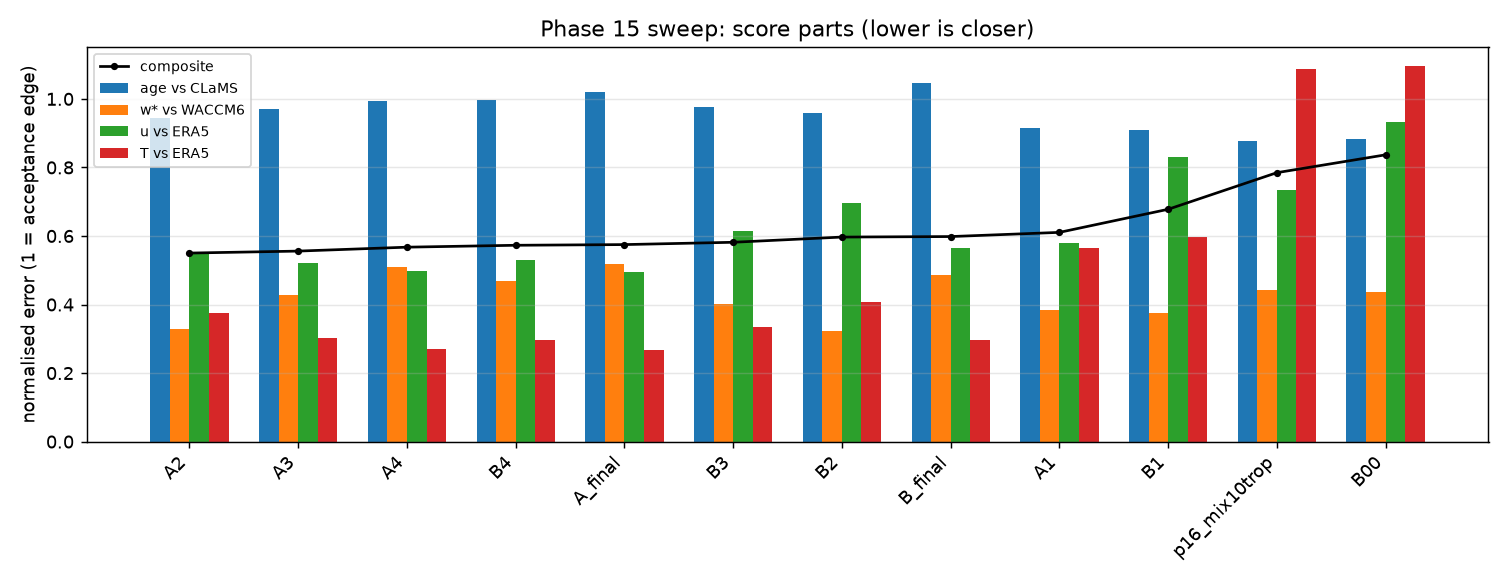
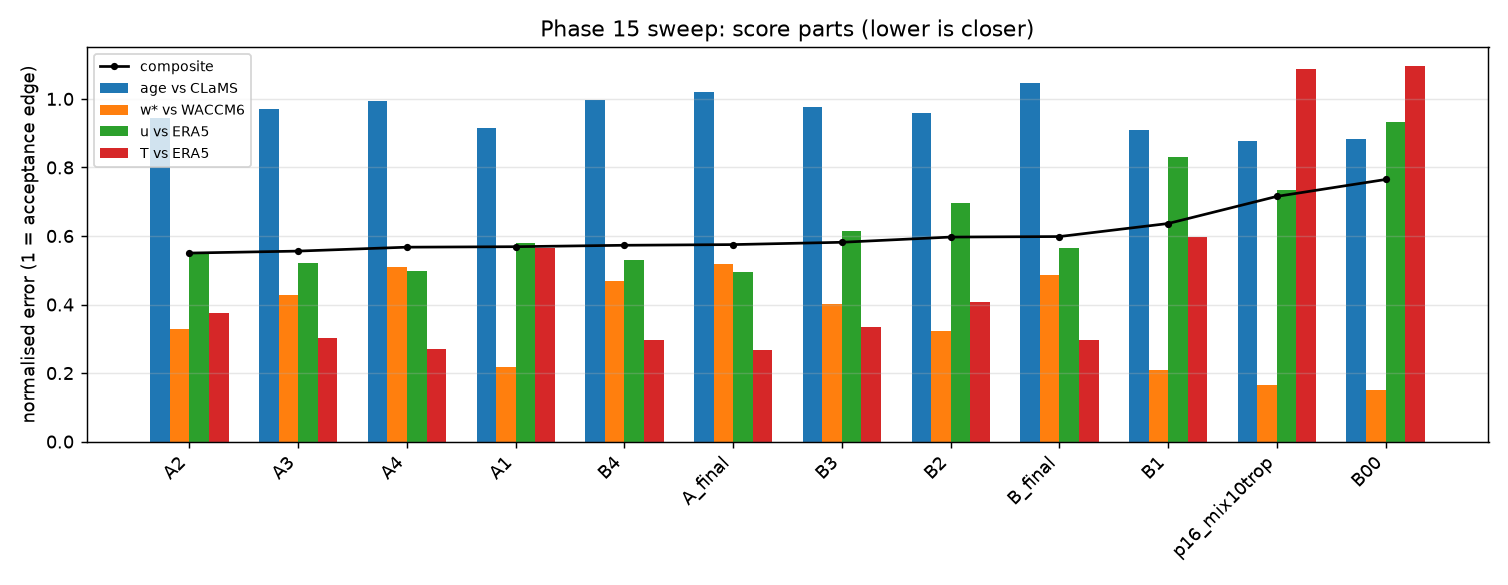
Phase 17: results; early runs re-scored against ERA5 w*

diff --git a/docs/outputs/17_teq/output.md b/docs/outputs/17_teq/output.md
@@ -1,6 +1,6 @@
 # Phase 17 — re-optimising the JFV equilibrium temperature toward ERA5 (strat81, GPUs 0/1/2)
 
-Status: **running unattended** (tmux `strat_p17_A` / `strat_p17_B` / `strat_p17_B0`, logs `runs/p17_<track>.log`, branch
+Status: **done** 2026-10-01 06:16 PDT (all tracks; four early scores re-scored against ERA5 w* at 09:40 PDT). Was: running unattended (tmux `strat_p17_A` / `strat_p17_B` / `strat_p17_B0`, logs `runs/p17_<track>.log`, branch
 `phase17-teq`, worktree `/data/JCM_stripped/jcm-strat-phase17`). Susanne, 2026-10-01 01:00 PDT: "Yes, you can use GPU 0,1 and 2. I need
 age of air to look like that of CLaMS, and the tropical upwelling needs to match ERA5 better too." The leaderboard and the run log
 below are rewritten by the tracks after every run; nothing is pushed.
@@ -61,26 +61,26 @@ follow-up is decided once the ERA5 w* reference is in (see the run log).
 ## Leaderboard
 
 <!-- leaderboard:start -->
-12 scored run(s) as of 2026-10-01 06:16 PDT. Composite = mean(age RMSE/0.5 yr, w* log-error/ln 1.5, u RMSE/5 m/s, T RMSE/5 K); lower is closer; the age term is the entry-age clock against CLaMS (AGE minus CLaMS' own 0.09 yr at 150 hPa), w* against WACCM6, u and T against ERA5 (same months).
+12 scored run(s) as of 2026-10-01 09:37 PDT. Composite = mean(age RMSE/0.5 yr, w* log-error/ln 1.5, u RMSE/5 m/s, T RMSE/5 K); lower is closer; the age term is the entry-age clock against CLaMS (AGE minus CLaMS' own 0.09 yr at 150 hPa), w* against WACCM6, u and T against ERA5 (same months).
 
-**Best so far: `A2`** — mix10trop (Jucker + Rayleigh 30 d + tropical tracer mixing), iteration 2 (1998-1999 from mix10trop 1997): composite 0.550 (base 0.785); age RMSE 0.47 (base 0.44) yr, bias +0.16 (base +0.12); tropical w* 100/70/50/30/10 hPa 0.34/0.22/0.25/0.30/0.53 (base 0.35/0.24/0.29/0.33/0.47, WACCM6 0.40/0.21/0.20/0.26/0.47); u RMSE 2.7 (base 3.7) m/s, T RMSE 1.9 (base 5.4) K; `aoa150` 55 hPa tropics 1.78 (base 1.68) / 50-70 3.70 (base 3.68), 12 hPa tropics 3.67 (base 3.69) yr; cost 34 (base 34) min/yr.
+**Best so far: `A2`** — mix10trop (Jucker + Rayleigh 30 d + tropical tracer mixing), iteration 2 (1998-1999 from mix10trop 1997): composite 0.550 (base 0.716); age RMSE 0.47 (base 0.44) yr, bias +0.16 (base +0.12); tropical w* 100/70/50/30/10 hPa 0.34/0.22/0.25/0.30/0.53 (base 0.35/0.24/0.29/0.33/0.47, WACCM6 0.40/0.21/0.20/0.26/0.47); u RMSE 2.7 (base 3.7) m/s, T RMSE 1.9 (base 5.4) K; `aoa150` 55 hPa tropics 1.78 (base 1.68) / 50-70 3.70 (base 3.68), 12 hPa tropics 3.67 (base 3.69) yr; cost 34 (base 34) min/yr.
 
-Closer than the base (0.785): A2, A3, A4, B4, A_final, B3, B2, B_final, A1, B1. Further from it: B00.
+Closer than the base (0.716): A2, A3, A4, A1, B4, A_final, B3, B2, B_final, B1. Further from it: B00.
 
 | rank | run | stage | composite | age RMSE `aoa150` vs CLaMS-entry [yr] | age bias | w* log-err | u RMSE [m/s] | T RMSE [K] | w* 100/70/50/30/10 hPa [mm/s] | `aoa150` 55 hPa trop / 50-70 | `aoa150` 12 hPa trop / 50-70 | `aoa_sfc` RMSE vs CLaMS | `aoa_sfc` 55 hPa trop (CLaMS 1.33) | `aoa500` 100 hPa trop [yr] (500->100 transit) | w* 1 hPa trop / NH / SH | w* ref | ERA5 w* 100/70/50/30/10 | barrier age 55 hPa (25-35 minus 0-10) | min/yr | what |
 |---|---|---|---|---|---|---|---|---|---|---|---|---|---|---|---|---|---|---|---|---|
 | 1 | **A2** | A | 0.550 | 0.47 | +0.16 | 0.13 | 2.7 | 1.9 | 0.34/0.22/0.25/0.30/0.53 | 1.78 / 3.70 | 3.67 / 4.71 | 1.28 | 2.95 | 1.07 | 1.55 / -2.00 / -2.34 | ERA5 | 0.42/0.24/0.27/0.33/0.44 | 0.92 | 34 | mix10trop (Jucker + Rayleigh 30 d + tropical tracer mixing), iteration 2 (1998-1999 from mix10trop 1997) |
 | 2 | A3 | A | 0.556 | 0.49 | +0.18 | 0.17 | 2.6 | 1.5 | 0.33/0.21/0.23/0.28/0.54 | 1.83 / 3.72 | 3.70 / 4.73 | 1.31 | 3.01 | 1.09 | 1.81 / -1.88 / -2.24 | ERA5 | 0.42/0.24/0.27/0.33/0.44 | 0.89 | 34 | mix10trop (Jucker + Rayleigh 30 d + tropical tracer mixing), iteration 3 (1998-1999 from mix10trop 1997) |
 | 3 | A4 | A | 0.567 | 0.50 | +0.20 | 0.21 | 2.5 | 1.4 | 0.33/0.20/0.22/0.28/0.55 | 1.87 / 3.72 | 3.72 / 4.73 | 1.33 | 3.06 | 1.10 | 2.03 / -1.77 / -2.16 | ERA5 | 0.42/0.24/0.27/0.33/0.44 | 0.86 | 34 | mix10trop (Jucker + Rayleigh 30 d + tropical tracer mixing), iteration 4 (1998-1999 from mix10trop 1997) |
-| 4 | B4 | B | 0.573 | 0.50 | +0.22 | 0.19 | 2.6 | 1.5 | 0.33/0.20/0.22/0.29/0.55 | 1.88 / 3.77 | 3.74 / 4.77 | 1.33 | 3.06 | 1.10 | 2.52 / -1.65 / -2.04 | ERA5 | 0.42/0.24/0.27/0.33/0.44 | 0.90 | 34 | mix10trop without the Rayleigh drag, iteration 4 (1998-1999 from mix10trop 1997) |
-| 5 | A_final | A | 0.575 | 0.51 | +0.23 | 0.21 | 2.5 | 1.3 | 0.32/0.20/0.22/0.28/0.55 | 1.90 / 3.76 | 3.77 / 4.77 | 1.38 | 3.11 | 1.11 | 2.04 / -1.77 / -2.16 | ERA5 | 0.42/0.24/0.27/0.33/0.44 | 0.86 | 34 | mix10trop (Jucker + Rayleigh 30 d + tropical tracer mixing) with correction A4, ten years 1990-1999 from ERA5 |
-| 6 | B3 | B | 0.582 | 0.49 | +0.22 | 0.16 | 3.1 | 1.7 | 0.33/0.21/0.23/0.29/0.53 | 1.85 / 3.76 | 3.73 / 4.77 | 1.32 | 3.02 | 1.09 | 2.28 / -1.73 / -2.16 | ERA5 | 0.42/0.24/0.27/0.33/0.44 | 0.92 | 34 | mix10trop without the Rayleigh drag, iteration 3 (1998-1999 from mix10trop 1997) |
-| 7 | B2 | B | 0.597 | 0.48 | +0.21 | 0.13 | 3.5 | 2.0 | 0.34/0.22/0.25/0.30/0.52 | 1.81 / 3.76 | 3.73 / 4.77 | 1.30 | 2.97 | 1.08 | 1.99 / -1.92 / -2.30 | ERA5 | 0.42/0.24/0.27/0.33/0.44 | 0.95 | 34 | mix10trop without the Rayleigh drag, iteration 2 (1998-1999 from mix10trop 1997) |
-| 8 | B_final | B | 0.598 | 0.52 | +0.28 | 0.20 | 2.8 | 1.5 | 0.33/0.20/0.22/0.28/0.54 | 1.93 / 3.83 | 3.84 / 4.83 | 1.40 | 3.14 | 1.13 | 2.53 / -1.59 / -2.08 | ERA5 | 0.42/0.24/0.27/0.33/0.44 | 0.90 | 34 | mix10trop without the Rayleigh drag with correction B4, ten years 1990-1999 from ERA5 |
-| 9 | A1 | A | 0.611 | 0.46 | +0.14 | 0.16 | 2.9 | 2.8 | 0.34/0.23/0.27/0.31/0.51 | 1.73 / 3.69 | 3.66 / 4.69 | 1.24 | 2.89 | 1.05 | 1.28 / -2.15 / -2.45 | WACCM6 | —/—/—/—/— | 0.94 | 34 | mix10trop (Jucker + Rayleigh 30 d + tropical tracer mixing), iteration 1 (1998-1999 from mix10trop 1997) |
-| 10 | B1 | B | 0.678 | 0.45 | +0.17 | 0.15 | 4.2 | 3.0 | 0.34/0.23/0.27/0.31/0.50 | 1.75 / 3.73 | 3.70 / 4.74 | 1.26 | 2.90 | 1.06 | 1.64 / -2.17 / -2.49 | WACCM6 | —/—/—/—/— | 0.97 | 34 | mix10trop without the Rayleigh drag, iteration 1 (1998-1999 from mix10trop 1997) |
-| 11 | p16_mix10trop | ref | 0.785 | 0.44 | +0.12 | 0.18 | 3.7 | 5.4 | 0.35/0.24/0.29/0.33/0.47 | 1.68 / 3.68 | 3.69 / 4.69 | 1.21 | 2.82 | 1.03 | 0.99 / -2.26 / -2.57 | WACCM6 | —/—/—/—/— | 0.95 | 34 | Phase 16 mix10trop (the start state of every Phase 17 track) |
-| 12 | B00 | B0 | 0.837 | 0.44 | +0.16 | 0.18 | 4.7 | 5.5 | 0.35/0.24/0.29/0.33/0.46 | 1.70 / 3.73 | 3.73 / 4.74 | 1.23 | 2.84 | 1.04 | 1.31 / -2.23 / -2.60 | WACCM6 | —/—/—/—/— | 0.99 | 34 | mix10trop without the Rayleigh drag, NO T_e correction, iteration 0 (1998-1999 from mix10trop 1997) |
+| 4 | A1 | A | 0.569 | 0.46 | +0.14 | 0.09 | 2.9 | 2.8 | 0.34/0.23/0.27/0.31/0.51 | 1.73 / 3.69 | 3.66 / 4.69 | 1.24 | 2.89 | 1.05 | 1.28 / -2.15 / -2.45 | ERA5 | 0.42/0.24/0.27/0.33/0.44 | 0.94 | 34 | mix10trop (Jucker + Rayleigh 30 d + tropical tracer mixing), iteration 1 (1998-1999 from mix10trop 1997) |
+| 5 | B4 | B | 0.573 | 0.50 | +0.22 | 0.19 | 2.6 | 1.5 | 0.33/0.20/0.22/0.29/0.55 | 1.88 / 3.77 | 3.74 / 4.77 | 1.33 | 3.06 | 1.10 | 2.52 / -1.65 / -2.04 | ERA5 | 0.42/0.24/0.27/0.33/0.44 | 0.90 | 34 | mix10trop without the Rayleigh drag, iteration 4 (1998-1999 from mix10trop 1997) |
+| 6 | A_final | A | 0.575 | 0.51 | +0.23 | 0.21 | 2.5 | 1.3 | 0.32/0.20/0.22/0.28/0.55 | 1.90 / 3.76 | 3.77 / 4.77 | 1.38 | 3.11 | 1.11 | 2.04 / -1.77 / -2.16 | ERA5 | 0.42/0.24/0.27/0.33/0.44 | 0.86 | 34 | mix10trop (Jucker + Rayleigh 30 d + tropical tracer mixing) with correction A4, ten years 1990-1999 from ERA5 |
+| 7 | B3 | B | 0.582 | 0.49 | +0.22 | 0.16 | 3.1 | 1.7 | 0.33/0.21/0.23/0.29/0.53 | 1.85 / 3.76 | 3.73 / 4.77 | 1.32 | 3.02 | 1.09 | 2.28 / -1.73 / -2.16 | ERA5 | 0.42/0.24/0.27/0.33/0.44 | 0.92 | 34 | mix10trop without the Rayleigh drag, iteration 3 (1998-1999 from mix10trop 1997) |
+| 8 | B2 | B | 0.597 | 0.48 | +0.21 | 0.13 | 3.5 | 2.0 | 0.34/0.22/0.25/0.30/0.52 | 1.81 / 3.76 | 3.73 / 4.77 | 1.30 | 2.97 | 1.08 | 1.99 / -1.92 / -2.30 | ERA5 | 0.42/0.24/0.27/0.33/0.44 | 0.95 | 34 | mix10trop without the Rayleigh drag, iteration 2 (1998-1999 from mix10trop 1997) |
+| 9 | B_final | B | 0.598 | 0.52 | +0.28 | 0.20 | 2.8 | 1.5 | 0.33/0.20/0.22/0.28/0.54 | 1.93 / 3.83 | 3.84 / 4.83 | 1.40 | 3.14 | 1.13 | 2.53 / -1.59 / -2.08 | ERA5 | 0.42/0.24/0.27/0.33/0.44 | 0.90 | 34 | mix10trop without the Rayleigh drag with correction B4, ten years 1990-1999 from ERA5 |
+| 10 | B1 | B | 0.636 | 0.45 | +0.17 | 0.09 | 4.2 | 3.0 | 0.34/0.23/0.27/0.31/0.50 | 1.75 / 3.73 | 3.70 / 4.74 | 1.26 | 2.90 | 1.06 | 1.64 / -2.17 / -2.49 | ERA5 | 0.42/0.24/0.27/0.33/0.44 | 0.97 | 34 | mix10trop without the Rayleigh drag, iteration 1 (1998-1999 from mix10trop 1997) |
+| 11 | p16_mix10trop | ref | 0.716 | 0.44 | +0.12 | 0.07 | 3.7 | 5.4 | 0.35/0.24/0.29/0.33/0.47 | 1.68 / 3.68 | 3.69 / 4.69 | 1.21 | 2.82 | 1.03 | 0.99 / -2.26 / -2.57 | ERA5 | 0.42/0.24/0.27/0.33/0.44 | 0.95 | 34 | Phase 16 mix10trop (the start state of every Phase 17 track) |
+| 12 | B00 | B0 | 0.765 | 0.44 | +0.16 | 0.06 | 4.7 | 5.5 | 0.35/0.24/0.29/0.33/0.46 | 1.70 / 3.73 | 3.73 / 4.74 | 1.23 | 2.84 | 1.04 | 1.31 / -2.23 / -2.60 | ERA5 | 0.42/0.24/0.27/0.33/0.44 | 0.99 | 34 | mix10trop without the Rayleigh drag, NO T_e correction, iteration 0 (1998-1999 from mix10trop 1997) |
 | | *references* | | | CLaMS entry age (AGE − 0.09) | | WACCM6 | ERA5 | ERA5 | 0.40/0.21/0.20/0.26/0.47 | CLaMS 1.24 / 4.03 (WACCM entry 1.11 / 3.40) | CLaMS 3.59 / 4.47 (WACCM 2.82 / 4.18) | | | | full ECHAM 1994: +0.96 / −1.29 / −3.19 | | | CLaMS 1.57 | | |
 
 ![scores](sweep_scores.png)
@@ -90,7 +90,39 @@ Closer than the base (0.785): A2, A3, A4, B4, A_final, B3, B2, B_final, A1, B1. 
 
 ## Results
 
-_to be written when the tracks finish_
+All numbers are 1998–1999. w* is scored against the **ERA5** TEM w* of the same years (new reference). The four runs scored before the
+ERA5 files arrived (`p16_mix10trop`, `B00`, `A1`, `B1`) were re-scored at 09:40 PDT; their WACCM-scored files are in `runs/p17_old_*.json`.
+
+| run | T RMSE [K] | u RMSE [m/s] | u 10 hPa 60°S JJA (ERA5 73) | SH cap T JJA | w* 100/70/50/30/10 [mm/s] | w* log-err vs ERA5 | age RMSE vs CLaMS [yr] (bias) | tropical 55 hPa age (CLaMS entry 1.24) | barrier step 55 hPa (CLaMS 1.57) |
+|---|---|---|---|---|---|---|---|---|---|
+| **ERA5** | | | 73 | | 0.42/0.24/0.27/0.33/0.44 | | | | |
+| `p16_mix10trop` (start) | 5.4 | 3.7 | 60 | +7.1 | 0.35/0.24/0.29/0.33/0.47 | **0.07** | **0.44** (+0.12) | **1.68** | 0.95 |
+| `B00` (no drag) | 5.5 | 4.7 | 62 | +4.8 | 0.35/0.24/0.29/0.33/0.46 | 0.06 | 0.44 (+0.16) | 1.70 | 0.99 |
+| `A1` | 2.8 | 2.9 | 64 | +4.3 | 0.34/0.23/0.27/0.31/0.51 | 0.09 | 0.46 (+0.14) | 1.73 | 0.94 |
+| `A2` | 1.9 | 2.7 | 67 | +3.0 | 0.34/0.22/0.25/0.30/0.53 | 0.13 | 0.47 (+0.16) | 1.78 | 0.92 |
+| `A4` | 1.4 | 2.5 | 70 | +1.6 | 0.33/0.20/0.22/0.28/0.55 | 0.21 | 0.50 (+0.20) | 1.87 | 0.86 |
+| `A_final` (10 yr) | **1.3** | **2.5** | **70** | **+1.6** | 0.32/0.20/0.22/0.28/0.55 | 0.21 | 0.51 (+0.23) | 1.90 | 0.86 |
+| `B_final` (10 yr, no drag) | 1.5 | 2.8 | 70 | +1.6 | 0.33/0.20/0.22/0.28/0.54 | 0.20 | 0.52 (+0.28) | 1.93 | 0.90 |
+
+1. **The T_e correction does what it was built to do.** T RMSE 5.4 → 1.3 K in four iterations (converging: 2.8, 1.9, 1.5, 1.4); u RMSE
+   3.7 → 2.5 m/s; the SH polar-night jet 60 → 70 m/s (ERA5 73) and the warm SH winter cap +7.1 → +1.6 K. The ten-year runs from ERA5
+   initial conditions reproduce the iteration numbers, so the correction is not tied to the mix10trop start state.
+2. **It does not fix the transport — it makes it slightly worse, monotonically with each iteration.** Entry-age RMSE 0.44 → 0.51 yr,
+   tropical 55 hPa age 1.68 → 1.90 yr (CLaMS 1.24), and the subtropical barrier step *shrinks* 0.95 → 0.86 yr (CLaMS 1.57). With the
+   jets now close to ERA5, the barrier is leakier, not tighter. The hypothesis "the waves break in the wrong place because the
+   T_e-driven jets are wrong" is not supported in this form: correcting the zonal-mean jets does not move the mixing toward CLaMS.
+3. **The start state's upwelling already matched ERA5** (log-error 0.07; only 100 hPa is 17 % weak: 0.35 vs 0.42). The correction
+   pushes it away: weaker ascent at 100–30 hPa (70/50 hPa 0.20/0.22 vs ERA5 0.24/0.27) and stronger at 10 hPa (0.55 vs 0.44). The
+   assumption in the Method that w* is set by the wave drag alone, so T_e would only move T and u, does not hold in the tropical lower
+   stratosphere. Cooling T_e there (−3 K at 70 hPa) lowers the radiative heating the ascent has to balance, and the shallow branch
+   weakens. That is the most likely reason the ages get older.
+4. **The Rayleigh drag is no longer needed for the winds** (B vs A: same T, u within 0.3 m/s, SH vortex and cap identical). Without it the
+   ages are 0.01–0.05 yr older, so neither choice helps the age.
+
+**Verdict.** The correction is a large improvement to the temperature and wind climatology and could be kept as a file, but it trades
+against the two goals of this phase (CLaMS age, ERA5 w*). The remaining age error is in tropical ascent below 30 hPa and the subtropical
+barrier, not in the zonal-mean winds. A follow-up would apply the correction only where it does not change the tropical lower-stratosphere
+heating (outside about 30°S–30°N below 20 hPa), or target w* at 100–50 hPa directly. Susanne decides; nothing has been run for it.
 
 ## Run log
 - 2026-09-30 18:26 PDT — track A: started (mix10trop (Jucker + Rayleigh 30 d + tropical tracer mixing); GPU 0, commit 1ecb291, 4 iterations, alpha 0.7)
@@ -111,3 +143,4 @@ _to be written when the tracks finish_
 - 2026-10-01 06:14 PDT — track B: final diagnostics for B_final in `final/`
 - 2026-10-01 06:14 PDT — track B: finished
 - 2026-10-01 06:16 PDT — track A: final diagnostics for A_final in `final/`
+- 2026-10-01 06:16 PDT — track A: finished

diff --git a/docs/outputs/17_teq/leaderboard.md b/docs/outputs/17_teq/leaderboard.md
@@ -1,23 +1,23 @@
 # Phase 15 sweep leaderboard
 
-12 scored run(s) as of 2026-10-01 06:16 PDT. Composite = mean(age RMSE/0.5 yr, w* log-error/ln 1.5, u RMSE/5 m/s, T RMSE/5 K); lower is closer; the age term is the entry-age clock against CLaMS (AGE minus CLaMS' own 0.09 yr at 150 hPa), w* against WACCM6, u and T against ERA5 (same months).
+12 scored run(s) as of 2026-10-01 09:37 PDT. Composite = mean(age RMSE/0.5 yr, w* log-error/ln 1.5, u RMSE/5 m/s, T RMSE/5 K); lower is closer; the age term is the entry-age clock against CLaMS (AGE minus CLaMS' own 0.09 yr at 150 hPa), w* against WACCM6, u and T against ERA5 (same months).
 
-**Best so far: `A2`** — mix10trop (Jucker + Rayleigh 30 d + tropical tracer mixing), iteration 2 (1998-1999 from mix10trop 1997): composite 0.550 (base 0.785); age RMSE 0.47 (base 0.44) yr, bias +0.16 (base +0.12); tropical w* 100/70/50/30/10 hPa 0.34/0.22/0.25/0.30/0.53 (base 0.35/0.24/0.29/0.33/0.47, WACCM6 0.40/0.21/0.20/0.26/0.47); u RMSE 2.7 (base 3.7) m/s, T RMSE 1.9 (base 5.4) K; `aoa150` 55 hPa tropics 1.78 (base 1.68) / 50-70 3.70 (base 3.68), 12 hPa tropics 3.67 (base 3.69) yr; cost 34 (base 34) min/yr.
+**Best so far: `A2`** — mix10trop (Jucker + Rayleigh 30 d + tropical tracer mixing), iteration 2 (1998-1999 from mix10trop 1997): composite 0.550 (base 0.716); age RMSE 0.47 (base 0.44) yr, bias +0.16 (base +0.12); tropical w* 100/70/50/30/10 hPa 0.34/0.22/0.25/0.30/0.53 (base 0.35/0.24/0.29/0.33/0.47, WACCM6 0.40/0.21/0.20/0.26/0.47); u RMSE 2.7 (base 3.7) m/s, T RMSE 1.9 (base 5.4) K; `aoa150` 55 hPa tropics 1.78 (base 1.68) / 50-70 3.70 (base 3.68), 12 hPa tropics 3.67 (base 3.69) yr; cost 34 (base 34) min/yr.
 
-Closer than the base (0.785): A2, A3, A4, B4, A_final, B3, B2, B_final, A1, B1. Further from it: B00.
+Closer than the base (0.716): A2, A3, A4, A1, B4, A_final, B3, B2, B_final, B1. Further from it: B00.
 
 | rank | run | stage | composite | age RMSE `aoa150` vs CLaMS-entry [yr] | age bias | w* log-err | u RMSE [m/s] | T RMSE [K] | w* 100/70/50/30/10 hPa [mm/s] | `aoa150` 55 hPa trop / 50-70 | `aoa150` 12 hPa trop / 50-70 | `aoa_sfc` RMSE vs CLaMS | `aoa_sfc` 55 hPa trop (CLaMS 1.33) | `aoa500` 100 hPa trop [yr] (500->100 transit) | w* 1 hPa trop / NH / SH | w* ref | ERA5 w* 100/70/50/30/10 | barrier age 55 hPa (25-35 minus 0-10) | min/yr | what |
 |---|---|---|---|---|---|---|---|---|---|---|---|---|---|---|---|---|---|---|---|---|
 | 1 | **A2** | A | 0.550 | 0.47 | +0.16 | 0.13 | 2.7 | 1.9 | 0.34/0.22/0.25/0.30/0.53 | 1.78 / 3.70 | 3.67 / 4.71 | 1.28 | 2.95 | 1.07 | 1.55 / -2.00 / -2.34 | ERA5 | 0.42/0.24/0.27/0.33/0.44 | 0.92 | 34 | mix10trop (Jucker + Rayleigh 30 d + tropical tracer mixing), iteration 2 (1998-1999 from mix10trop 1997) |
 | 2 | A3 | A | 0.556 | 0.49 | +0.18 | 0.17 | 2.6 | 1.5 | 0.33/0.21/0.23/0.28/0.54 | 1.83 / 3.72 | 3.70 / 4.73 | 1.31 | 3.01 | 1.09 | 1.81 / -1.88 / -2.24 | ERA5 | 0.42/0.24/0.27/0.33/0.44 | 0.89 | 34 | mix10trop (Jucker + Rayleigh 30 d + tropical tracer mixing), iteration 3 (1998-1999 from mix10trop 1997) |
 | 3 | A4 | A | 0.567 | 0.50 | +0.20 | 0.21 | 2.5 | 1.4 | 0.33/0.20/0.22/0.28/0.55 | 1.87 / 3.72 | 3.72 / 4.73 | 1.33 | 3.06 | 1.10 | 2.03 / -1.77 / -2.16 | ERA5 | 0.42/0.24/0.27/0.33/0.44 | 0.86 | 34 | mix10trop (Jucker + Rayleigh 30 d + tropical tracer mixing), iteration 4 (1998-1999 from mix10trop 1997) |
-| 4 | B4 | B | 0.573 | 0.50 | +0.22 | 0.19 | 2.6 | 1.5 | 0.33/0.20/0.22/0.29/0.55 | 1.88 / 3.77 | 3.74 / 4.77 | 1.33 | 3.06 | 1.10 | 2.52 / -1.65 / -2.04 | ERA5 | 0.42/0.24/0.27/0.33/0.44 | 0.90 | 34 | mix10trop without the Rayleigh drag, iteration 4 (1998-1999 from mix10trop 1997) |
-| 5 | A_final | A | 0.575 | 0.51 | +0.23 | 0.21 | 2.5 | 1.3 | 0.32/0.20/0.22/0.28/0.55 | 1.90 / 3.76 | 3.77 / 4.77 | 1.38 | 3.11 | 1.11 | 2.04 / -1.77 / -2.16 | ERA5 | 0.42/0.24/0.27/0.33/0.44 | 0.86 | 34 | mix10trop (Jucker + Rayleigh 30 d + tropical tracer mixing) with correction A4, ten years 1990-1999 from ERA5 |
-| 6 | B3 | B | 0.582 | 0.49 | +0.22 | 0.16 | 3.1 | 1.7 | 0.33/0.21/0.23/0.29/0.53 | 1.85 / 3.76 | 3.73 / 4.77 | 1.32 | 3.02 | 1.09 | 2.28 / -1.73 / -2.16 | ERA5 | 0.42/0.24/0.27/0.33/0.44 | 0.92 | 34 | mix10trop without the Rayleigh drag, iteration 3 (1998-1999 from mix10trop 1997) |
-| 7 | B2 | B | 0.597 | 0.48 | +0.21 | 0.13 | 3.5 | 2.0 | 0.34/0.22/0.25/0.30/0.52 | 1.81 / 3.76 | 3.73 / 4.77 | 1.30 | 2.97 | 1.08 | 1.99 / -1.92 / -2.30 | ERA5 | 0.42/0.24/0.27/0.33/0.44 | 0.95 | 34 | mix10trop without the Rayleigh drag, iteration 2 (1998-1999 from mix10trop 1997) |
-| 8 | B_final | B | 0.598 | 0.52 | +0.28 | 0.20 | 2.8 | 1.5 | 0.33/0.20/0.22/0.28/0.54 | 1.93 / 3.83 | 3.84 / 4.83 | 1.40 | 3.14 | 1.13 | 2.53 / -1.59 / -2.08 | ERA5 | 0.42/0.24/0.27/0.33/0.44 | 0.90 | 34 | mix10trop without the Rayleigh drag with correction B4, ten years 1990-1999 from ERA5 |
-| 9 | A1 | A | 0.611 | 0.46 | +0.14 | 0.16 | 2.9 | 2.8 | 0.34/0.23/0.27/0.31/0.51 | 1.73 / 3.69 | 3.66 / 4.69 | 1.24 | 2.89 | 1.05 | 1.28 / -2.15 / -2.45 | WACCM6 | —/—/—/—/— | 0.94 | 34 | mix10trop (Jucker + Rayleigh 30 d + tropical tracer mixing), iteration 1 (1998-1999 from mix10trop 1997) |
-| 10 | B1 | B | 0.678 | 0.45 | +0.17 | 0.15 | 4.2 | 3.0 | 0.34/0.23/0.27/0.31/0.50 | 1.75 / 3.73 | 3.70 / 4.74 | 1.26 | 2.90 | 1.06 | 1.64 / -2.17 / -2.49 | WACCM6 | —/—/—/—/— | 0.97 | 34 | mix10trop without the Rayleigh drag, iteration 1 (1998-1999 from mix10trop 1997) |
-| 11 | p16_mix10trop | ref | 0.785 | 0.44 | +0.12 | 0.18 | 3.7 | 5.4 | 0.35/0.24/0.29/0.33/0.47 | 1.68 / 3.68 | 3.69 / 4.69 | 1.21 | 2.82 | 1.03 | 0.99 / -2.26 / -2.57 | WACCM6 | —/—/—/—/— | 0.95 | 34 | Phase 16 mix10trop (the start state of every Phase 17 track) |
-| 12 | B00 | B0 | 0.837 | 0.44 | +0.16 | 0.18 | 4.7 | 5.5 | 0.35/0.24/0.29/0.33/0.46 | 1.70 / 3.73 | 3.73 / 4.74 | 1.23 | 2.84 | 1.04 | 1.31 / -2.23 / -2.60 | WACCM6 | —/—/—/—/— | 0.99 | 34 | mix10trop without the Rayleigh drag, NO T_e correction, iteration 0 (1998-1999 from mix10trop 1997) |
+| 4 | A1 | A | 0.569 | 0.46 | +0.14 | 0.09 | 2.9 | 2.8 | 0.34/0.23/0.27/0.31/0.51 | 1.73 / 3.69 | 3.66 / 4.69 | 1.24 | 2.89 | 1.05 | 1.28 / -2.15 / -2.45 | ERA5 | 0.42/0.24/0.27/0.33/0.44 | 0.94 | 34 | mix10trop (Jucker + Rayleigh 30 d + tropical tracer mixing), iteration 1 (1998-1999 from mix10trop 1997) |
+| 5 | B4 | B | 0.573 | 0.50 | +0.22 | 0.19 | 2.6 | 1.5 | 0.33/0.20/0.22/0.29/0.55 | 1.88 / 3.77 | 3.74 / 4.77 | 1.33 | 3.06 | 1.10 | 2.52 / -1.65 / -2.04 | ERA5 | 0.42/0.24/0.27/0.33/0.44 | 0.90 | 34 | mix10trop without the Rayleigh drag, iteration 4 (1998-1999 from mix10trop 1997) |
+| 6 | A_final | A | 0.575 | 0.51 | +0.23 | 0.21 | 2.5 | 1.3 | 0.32/0.20/0.22/0.28/0.55 | 1.90 / 3.76 | 3.77 / 4.77 | 1.38 | 3.11 | 1.11 | 2.04 / -1.77 / -2.16 | ERA5 | 0.42/0.24/0.27/0.33/0.44 | 0.86 | 34 | mix10trop (Jucker + Rayleigh 30 d + tropical tracer mixing) with correction A4, ten years 1990-1999 from ERA5 |
+| 7 | B3 | B | 0.582 | 0.49 | +0.22 | 0.16 | 3.1 | 1.7 | 0.33/0.21/0.23/0.29/0.53 | 1.85 / 3.76 | 3.73 / 4.77 | 1.32 | 3.02 | 1.09 | 2.28 / -1.73 / -2.16 | ERA5 | 0.42/0.24/0.27/0.33/0.44 | 0.92 | 34 | mix10trop without the Rayleigh drag, iteration 3 (1998-1999 from mix10trop 1997) |
+| 8 | B2 | B | 0.597 | 0.48 | +0.21 | 0.13 | 3.5 | 2.0 | 0.34/0.22/0.25/0.30/0.52 | 1.81 / 3.76 | 3.73 / 4.77 | 1.30 | 2.97 | 1.08 | 1.99 / -1.92 / -2.30 | ERA5 | 0.42/0.24/0.27/0.33/0.44 | 0.95 | 34 | mix10trop without the Rayleigh drag, iteration 2 (1998-1999 from mix10trop 1997) |
+| 9 | B_final | B | 0.598 | 0.52 | +0.28 | 0.20 | 2.8 | 1.5 | 0.33/0.20/0.22/0.28/0.54 | 1.93 / 3.83 | 3.84 / 4.83 | 1.40 | 3.14 | 1.13 | 2.53 / -1.59 / -2.08 | ERA5 | 0.42/0.24/0.27/0.33/0.44 | 0.90 | 34 | mix10trop without the Rayleigh drag with correction B4, ten years 1990-1999 from ERA5 |
+| 10 | B1 | B | 0.636 | 0.45 | +0.17 | 0.09 | 4.2 | 3.0 | 0.34/0.23/0.27/0.31/0.50 | 1.75 / 3.73 | 3.70 / 4.74 | 1.26 | 2.90 | 1.06 | 1.64 / -2.17 / -2.49 | ERA5 | 0.42/0.24/0.27/0.33/0.44 | 0.97 | 34 | mix10trop without the Rayleigh drag, iteration 1 (1998-1999 from mix10trop 1997) |
+| 11 | p16_mix10trop | ref | 0.716 | 0.44 | +0.12 | 0.07 | 3.7 | 5.4 | 0.35/0.24/0.29/0.33/0.47 | 1.68 / 3.68 | 3.69 / 4.69 | 1.21 | 2.82 | 1.03 | 0.99 / -2.26 / -2.57 | ERA5 | 0.42/0.24/0.27/0.33/0.44 | 0.95 | 34 | Phase 16 mix10trop (the start state of every Phase 17 track) |
+| 12 | B00 | B0 | 0.765 | 0.44 | +0.16 | 0.06 | 4.7 | 5.5 | 0.35/0.24/0.29/0.33/0.46 | 1.70 / 3.73 | 3.73 / 4.74 | 1.23 | 2.84 | 1.04 | 1.31 / -2.23 / -2.60 | ERA5 | 0.42/0.24/0.27/0.33/0.44 | 0.99 | 34 | mix10trop without the Rayleigh drag, NO T_e correction, iteration 0 (1998-1999 from mix10trop 1997) |
 | | *references* | | | CLaMS entry age (AGE − 0.09) | | WACCM6 | ERA5 | ERA5 | 0.40/0.21/0.20/0.26/0.47 | CLaMS 1.24 / 4.03 (WACCM entry 1.11 / 3.40) | CLaMS 3.59 / 4.47 (WACCM 2.82 / 4.18) | | | | full ECHAM 1994: +0.96 / −1.29 / −3.19 | | | CLaMS 1.57 | | |
